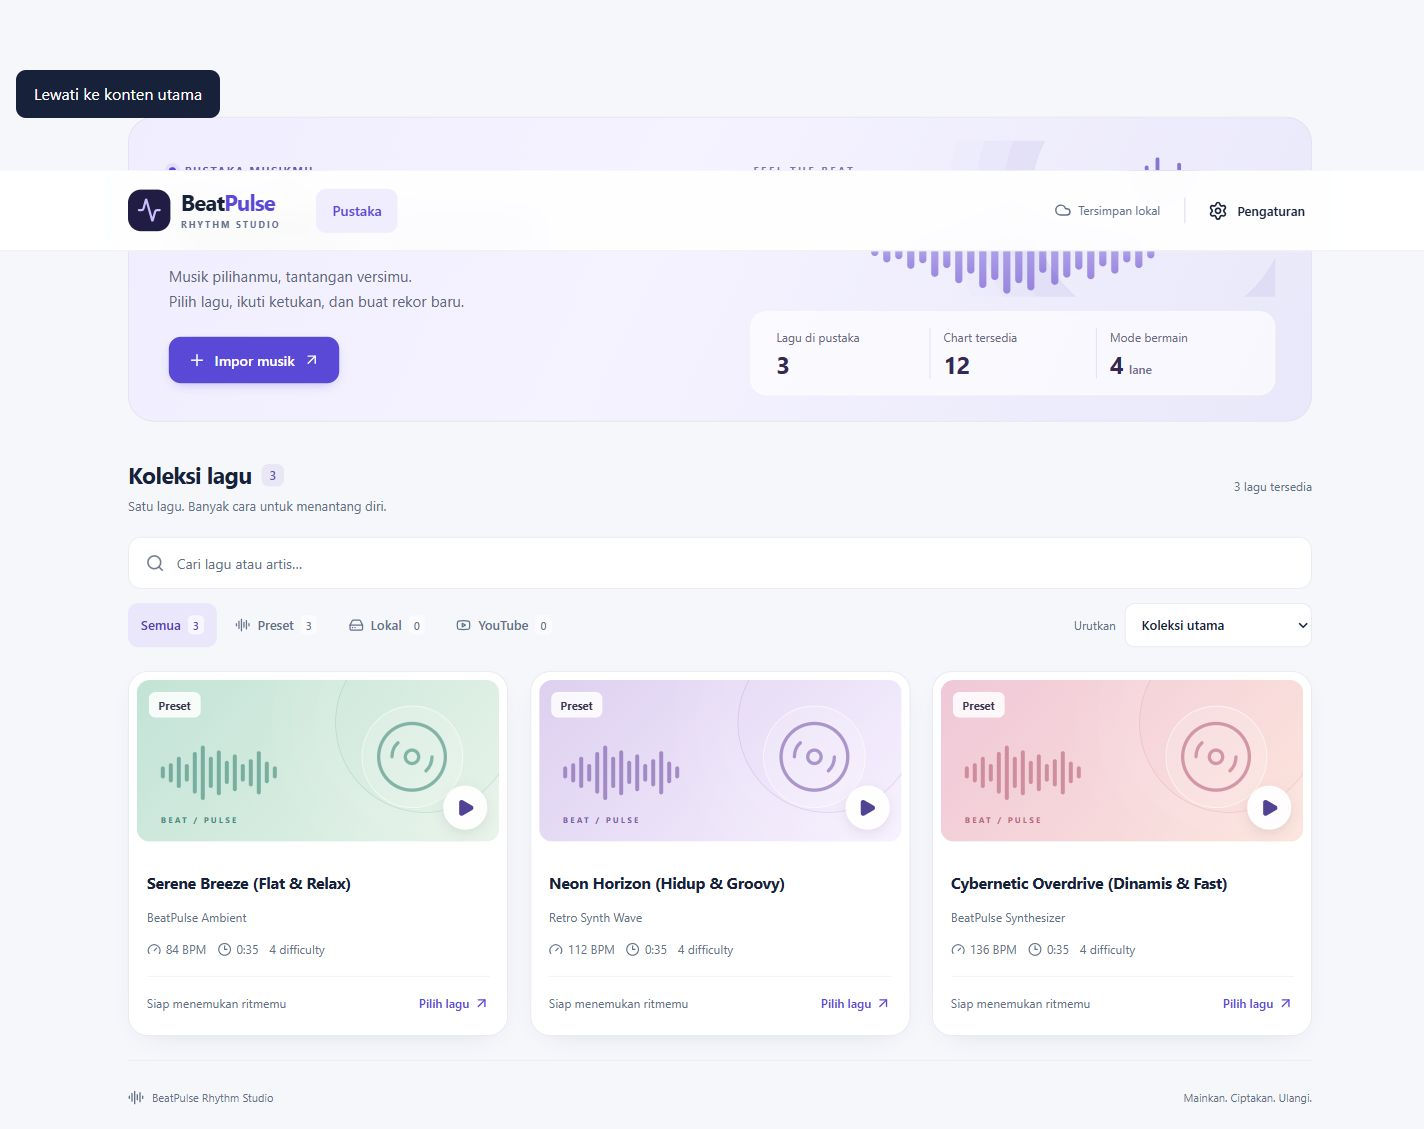
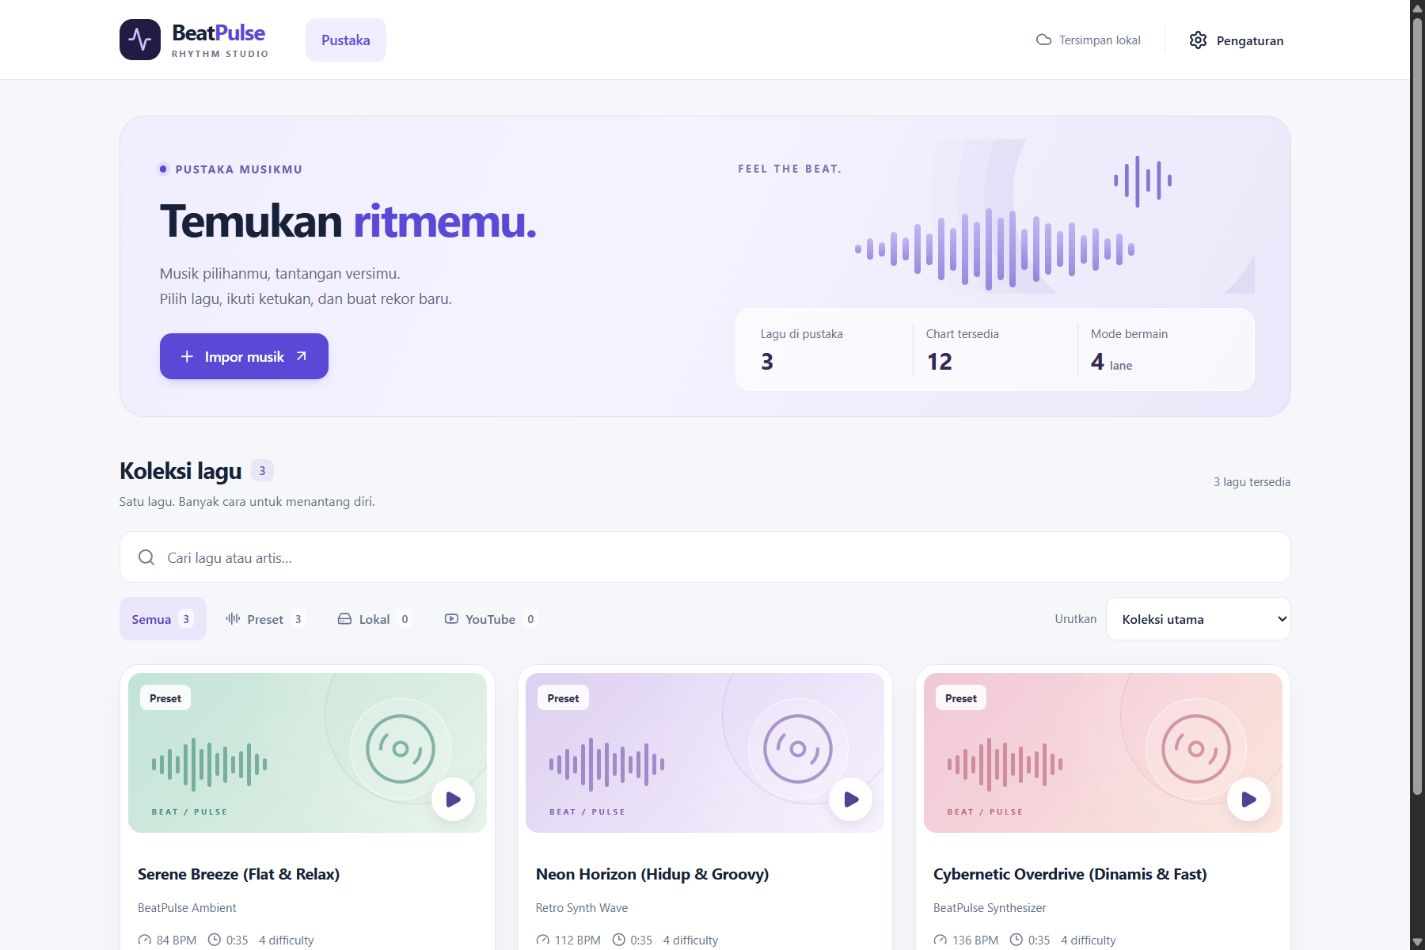
docs: record verified main menu deployment

diff --git a/docs/MAIN_MENU_UI_UX_IMPLEMENTATION.md b/docs/MAIN_MENU_UI_UX_IMPLEMENTATION.md
@@ -40,6 +40,13 @@ Rilis diverifikasi dari arsip Git index yang hanya berisi perubahan tugas ini. P
 - Build masih memiliki peringatan ukuran bundle besar dari aplikasi yang memuat gameplay, editor, dan integrasi akun. Pemisahan bundle menyeluruh merupakan pekerjaan lanjutan; build tetap berhasil.
 - Deployment mengikuti workflow GitHub Pages yang sudah ada: push ke `main`, lint/tes/build, lalu penerbitan ke `gh-pages`.
 
+## Deployment terverifikasi
+
+- Commit kode: `fdb6e7a` — `feat: redesign BeatPulse library and main menu`.
+- Workflow [37705354665](https://github.com/Darlayx0/Beat-Pulse/actions/runs/37705354665) berhasil pada seluruh tahap, termasuk deploy ke `gh-pages`.
+- [Situs publik BeatPulse](https://darlayx0.github.io/Beat-Pulse/) sudah menampilkan menu baru; navigasi detail dan tombol main diperiksa pada versi online.
+- Aset publik `index-CkRonOPh.css` dan `index-BOnclIs1.js` cocok dengan build rilis lokal yang telah diverifikasi.
+
 ## Pemeriksaan ulang
 
 ```sh
@@ -49,3 +56,4 @@ npm run test:sync
 npm exec -- tsx --test tests/libraryPresentation.test.ts
 npm run build:client
 ```
+

diff --git a/docs/MAIN_MENU_UI_UX_PLAN.md b/docs/MAIN_MENU_UI_UX_PLAN.md
@@ -1,7 +1,7 @@
 # Task Plan — Peningkatan UI/UX Main Menu BeatPulse
 
 Tanggal: 8 Oktober 2026.
-Status: implementasi dan validasi rilis selesai. Hasil aktual dicatat di `MAIN_MENU_UI_UX_IMPLEMENTATION.md`; penerbitan mengikuti workflow GitHub Pages.
+Status: implementasi, validasi rilis, dan deployment GitHub Pages selesai. Hasil aktual dicatat di `MAIN_MENU_UI_UX_IMPLEMENTATION.md`.
 
 ## Tujuan dan arah desain
 
